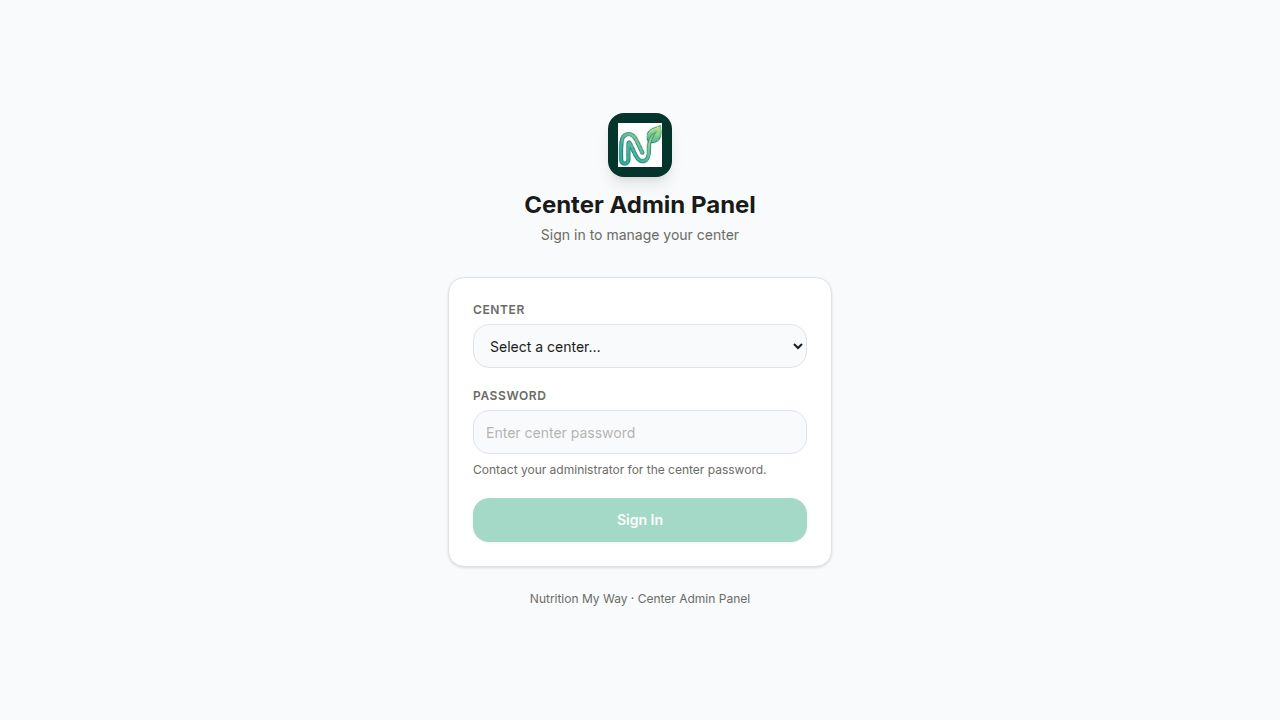
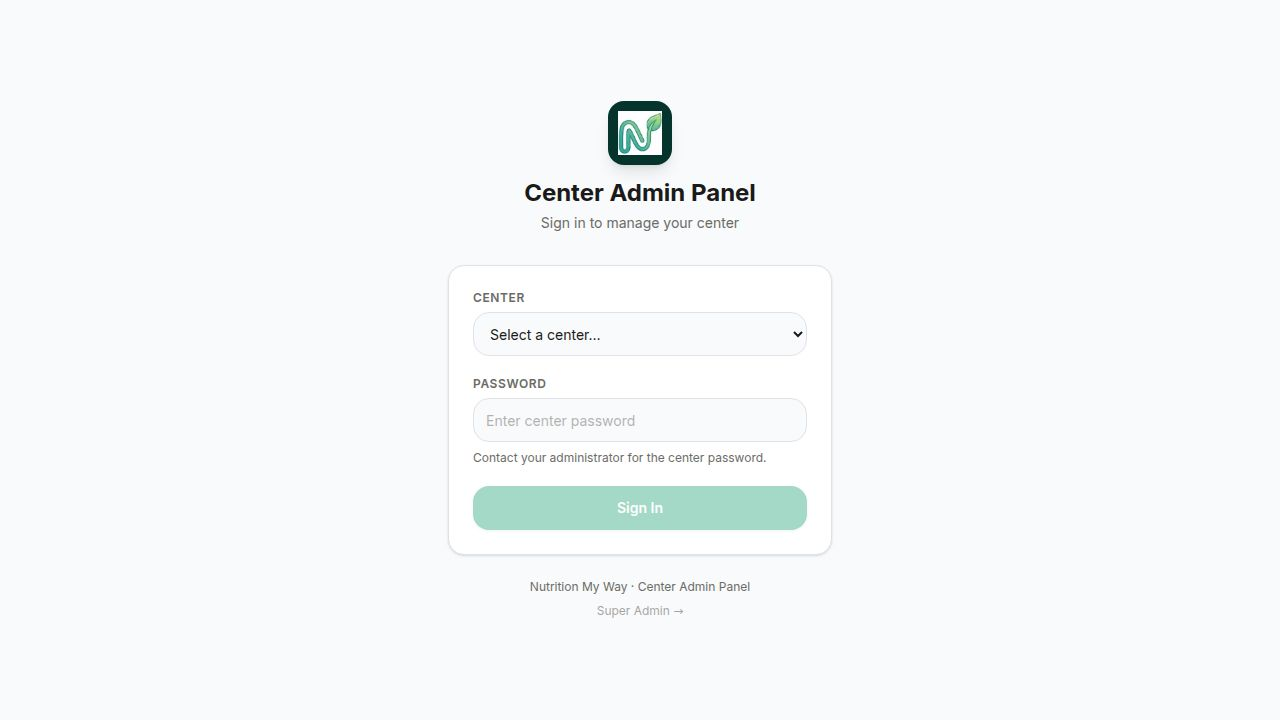
Add membership validity and renewal features to admin interface
Introduces DOB/Age fields to member creation, adds membership validity display and renewal functionality to member rows in the admin panel, and disables self-registration.

Replit-Commit-Author: Agent
Replit-Commit-Session-Id: 1934695b-7326-4707-95be-c75b027bf244
Replit-Commit-Checkpoint-Type: full_checkpoint
Replit-Commit-Event-Id: 82db5d84-4d1c-47d4-88c3-12ffcdb5e7a1
Replit-Commit-Screenshot-Url: https://storage.googleapis.com/screenshot-production-us-central1/a3f36f29-72bc-48b9-8fff-577cf1212523/1934695b-7326-4707-95be-c75b027bf244/ELupNSv
Replit-Helium-Checkpoint-Created: true

Changed region(s): [[0.3438, 0.5194, 0.6562, 0.8556], [0.4062, 0.1222, 0.5938, 0.3361], [0.375, 0.3972, 0.4688, 0.4889]]

diff --git a/artifacts/nutrimyway/src/pages/login.tsx b/artifacts/nutrimyway/src/pages/login.tsx
@@ -270,65 +270,31 @@ export function Login() {
             </motion.div>
           )}
 
-          {/* ── STEP 3: Register ── */}
+          {/* ── STEP 3: Not registered ── */}
           {step === "register" && (
             <motion.div key="register" {...slide} className="flex flex-col gap-6">
               <div>
-                <h1 className="text-2xl font-bold">Create your profile</h1>
-                <p className="text-muted-foreground text-sm mt-1">Almost there — just a few details</p>
+                <h1 className="text-2xl font-bold">Account not found</h1>
+                <p className="text-muted-foreground text-sm mt-1">
+                  This number / email isn&apos;t registered yet
+                </p>
               </div>
 
-              <div className="space-y-2">
-                <label htmlFor="name" className="text-xs font-semibold uppercase tracking-wider text-muted-foreground">
-                  Full Name
-                </label>
-                <input
-                  id="name"
-                  type="text"
-                  placeholder="e.g. Priya Sharma"
-                  value={name}
-                  onChange={e => setName(e.target.value)}
-                  className="w-full h-13 px-4 py-3.5 rounded-[12px] border border-input bg-card text-base placeholder:text-muted-foreground/50 focus:outline-none focus:ring-2 focus:ring-primary/40 focus:border-primary transition-all"
-                />
-              </div>
-
-              <div className="space-y-3">
-                <div>
-                  <label className="text-xs font-semibold uppercase tracking-wider text-muted-foreground">
-                    Your Center(s)
-                  </label>
-                  <p className="text-xs text-muted-foreground mt-0.5">Select at least one</p>
+              <div className="rounded-[16px] bg-teal-dark/6 border border-teal-dark/15 px-5 py-6 flex flex-col items-center gap-3 text-center">
+                <div className="w-12 h-12 rounded-full bg-teal-dark/10 flex items-center justify-center">
+                  <Phone className="w-5 h-5 text-teal-dark" />
                 </div>
-                <div className="space-y-2">
-                  {centers.length === 0 && (
-                    <p className="text-sm text-muted-foreground py-2 text-center">Loading…</p>
-                  )}
-                  {centers.map(c => {
-                    const on = selected.has(c.id);
-                    return (
-                      <button key={c.id} onClick={() => toggleCenter(c.id)}
-                        className={`w-full flex items-center justify-between px-4 py-3.5 rounded-[12px] border text-sm font-medium transition-all ${
-                          on
-                            ? "bg-primary/8 border-primary text-primary"
-                            : "bg-card border-border text-foreground hover:border-primary/40"
-                        }`}>
-                        <span>{c.name}</span>
-                        <span className={`w-5 h-5 rounded-full border-2 flex items-center justify-center transition-all ${
-                          on ? "bg-primary border-primary" : "border-muted-foreground/30"
-                        }`}>
-                          {on && <Check className="w-3 h-3 text-primary-foreground" />}
-                        </span>
-                      </button>
-                    );
-                  })}
-                </div>
+                <p className="text-sm font-semibold text-foreground leading-snug">
+                  Contact your wellness center
+                </p>
+                <p className="text-sm text-muted-foreground leading-relaxed">
+                  New memberships are set up by your center. Ask a staff member to
+                  add you — you&apos;ll be able to log in right away with the same
+                  mobile number or email.
+                </p>
               </div>
 
               {error && <ErrorBanner msg={error} />}
-
-              <PrimaryButton onClick={register} disabled={!canSubmitRegister} loading={loading}>
-                Get Started <ArrowRight className="w-4 h-4 ml-1.5" />
-              </PrimaryButton>
             </motion.div>
           )}
         </AnimatePresence>

diff --git a/artifacts/nutrimyway-admin/src/pages/members.tsx b/artifacts/nutrimyway-admin/src/pages/members.tsx
@@ -2,11 +2,11 @@ import { useEffect, useState, useCallback } from "react";
 import {
   UserPlus, LogIn, LogOut, Trash2, Users, Clock,
   Search, Phone, Mail, UserCheck, UserX,
-  Lock, CheckCircle2, XCircle, AlertTriangle, Loader2, X, Activity, Plus, Hash,
+  Lock, CheckCircle2, XCircle, AlertTriangle, Loader2, X, Activity, Plus, Hash, RotateCcw, CalendarClock,
 } from "lucide-react";
 import { Nav } from "@/components/nav";
 import {
-  apiGet, apiPost, apiDelete, getAdminCenter,
+  apiGet, apiPost, apiPatch, apiDelete, getAdminCenter,
   type CenterMember, type MemberLookup, type MenuItem, type VisitMenuSelection, type HealthRecord,
 } from "@/lib/api";
 
@@ -37,6 +37,9 @@ function AddMemberForm({ centerId, onAdded }: { centerId: string; onAdded: () =>
   const [height, setHeight] = useState("");
   const [doj, setDoj] = useState("");
   const [membershipNo, setMembershipNo] = useState("");
+  const [dobDay, setDobDay] = useState("");
+  const [dobMonth, setDobMonth] = useState("");
+  const [ageAtJoining, setAgeAtJoining] = useState("");
   const [saving, setSaving] = useState(false);
   const [error, setError] = useState("");
   // Health record step
@@ -55,6 +58,7 @@ function AddMemberForm({ centerId, onAdded }: { centerId: string; onAdded: () =>
   function reset() {
     setStep("search"); setQuery(""); setFound(null); setError("");
     setName(""); setEmail(""); setMobile(""); setHeight(""); setDoj(""); setMembershipNo("");
+    setDobDay(""); setDobMonth(""); setAgeAtJoining("");
     setLinkedMemberId(null);
     setHrDate(new Date().toISOString().slice(0, 10));
     setHrWeight(""); setHrBmi(""); setHrBodyFat(""); setHrVisceralFat("");
@@ -102,6 +106,8 @@ function AddMemberForm({ centerId, onAdded }: { centerId: string; onAdded: () =>
         name: name.trim(), mobile: mobile.trim() || null, email: email.trim() || null,
         height_cm: height ? Number(height) : null, date_of_joining: doj || null,
         membership_no: membershipNo.trim() || null,
+        dob: dobDay && dobMonth ? `${dobDay} ${dobMonth}` : null,
+        age_at_joining: ageAtJoining ? Number(ageAtJoining) : null,
       });
       setLinkedMemberId(member.id);
       setStep("healthrecord");
@@ -236,6 +242,23 @@ function AddMemberForm({ centerId, onAdded }: { centerId: string; onAdded: () =>
             <div className="sm:col-span-2">
               <label className="block text-xs font-medium text-muted-foreground mb-1">Date of Joining</label>
               <input type="date" value={doj} onChange={e => setDoj(e.target.value)} className={inputCls} />
+            </div>
+            <div>
+              <label className="block text-xs font-medium text-muted-foreground mb-1">Birth Day</label>
+              <input type="number" min="1" max="31" value={dobDay} onChange={e => setDobDay(e.target.value)} placeholder="1–31" className={inputCls} />
+            </div>
+            <div>
+              <label className="block text-xs font-medium text-muted-foreground mb-1">Birth Month</label>
+              <select value={dobMonth} onChange={e => setDobMonth(e.target.value)} className={inputCls}>
+                <option value="">Month</option>
+                {["Jan","Feb","Mar","Apr","May","Jun","Jul","Aug","Sep","Oct","Nov","Dec"].map(m => (
+                  <option key={m} value={m}>{m}</option>
+                ))}
+              </select>
+            </div>
+            <div className="sm:col-span-2">
+              <label className="block text-xs font-medium text-muted-foreground mb-1">Age at Joining</label>
+              <input type="number" step="0.5" min="1" max="100" value={ageAtJoining} onChange={e => setAgeAtJoining(e.target.value)} placeholder="e.g. 35.5" className={inputCls} />
             </div>
           </div>
           <p className="text-[10px] text-amber-600">* Mobile or email is required (at least one)</p>
@@ -727,6 +750,16 @@ function HealthPanel({ memberId, centerId, onClose }: {
 
 // ── Member Row ──────────────────────────────────────────────────────────────
 
+function validityBadge(valid_until: string | null) {
+  if (!valid_until) return null;
+  const exp = new Date(valid_until);
+  const expired = exp < new Date();
+  const label = exp.toLocaleDateString("en-IN", { day: "numeric", month: "short", year: "numeric" });
+  return expired
+    ? <span className="inline-flex items-center gap-1 text-[10px] font-medium text-red-600 bg-red-50 border border-red-200 rounded-full px-2 py-0.5"><CalendarClock className="w-3 h-3" />Expired {label}</span>
+    : <span className="inline-flex items-center gap-1 text-[10px] font-medium text-emerald-700 bg-emerald-50 border border-emerald-200 rounded-full px-2 py-0.5"><CalendarClock className="w-3 h-3" />Valid until {label}</span>;
+}
+
 function MemberRow({ member, centerId, onRefresh }: {
   member: CenterMember; centerId: string; onRefresh: () => void;
 }) {
@@ -736,6 +769,16 @@ function MemberRow({ member, centerId, onRefresh }: {
   const [showHealthPanel, setShowHealthPanel] = useState(false);
   const isCheckedIn = !!member.checkin_id;
   const mins = isCheckedIn ? minutesSince(member.checked_in_at!) : 0;
+
+  async function handleRenew() {
+    if (!confirm(`Renew ${member.name}'s membership by 32 days?`)) return;
+    setBusy(true);
+    try {
+      await apiPatch(`/admin/centers/${centerId}/members/${member.id}/renew`);
+      onRefresh();
+    } catch (e) { alert(e instanceof Error ? e.message : "Renewal failed"); }
+    finally { setBusy(false); }
+  }
 
   async function handleCheckin() {
     const w = Number(weightKg);
@@ -778,8 +821,9 @@ function MemberRow({ member, centerId, onRefresh }: {
               </span>
             )}
           </div>
-          <div className="flex items-center gap-3 mt-0.5">
+          <div className="flex flex-wrap items-center gap-x-3 gap-y-1 mt-0.5">
             {member.mobile && <p className="text-xs text-muted-foreground">{member.mobile}</p>}
+            {validityBadge(member.valid_until)}
             {isCheckedIn && member.checked_in_at && (
               <p className={`text-xs flex items-center gap-1 ${mins >= 150 ? "text-amber-600 font-medium" : "text-muted-foreground"}`}>
                 <Clock className="w-3 h-3" />
@@ -833,6 +877,14 @@ function MemberRow({ member, centerId, onRefresh }: {
               </button>
             </>
           )}
+          <button
+            onClick={() => void handleRenew()}
+            disabled={busy}
+            className="p-1.5 rounded-lg text-muted-foreground hover:text-emerald-600 hover:bg-emerald-50 disabled:opacity-50 transition-colors"
+            title="Renew membership (+32 days)"
+          >
+            <RotateCcw className="w-4 h-4" />
+          </button>
           <button
             onClick={() => setShowHealthPanel(v => !v)}
             className={`p-1.5 rounded-lg transition-colors ${showHealthPanel ? "text-sky-600 bg-sky-100" : "text-muted-foreground hover:text-sky-600 hover:bg-sky-50"}`}

diff --git a/artifacts/api-server/src/routes/admin.ts b/artifacts/api-server/src/routes/admin.ts
@@ -732,6 +732,7 @@ router.get("/admin/centers/:centerId/members", requireAdmin, async (req, res) =>
   const { rows } = await pool.query(
     `SELECT
        m.id, m.name, m.date_of_joining, m.height_cm, m.mobile, m.email, m.membership_no,
+       m.dob, m.age_at_joining, m.valid_until,
        ci.id          AS checkin_id,
        ci.checked_in_at,
        ci.checked_out_at,
@@ -758,17 +759,21 @@ router.post("/admin/centers/:centerId/members", requireAdmin, async (req, res) =
   const adminReq = req as AdminRequest;
   if (adminReq.adminCenterId !== centerId) { res.status(403).json({ error: "Forbidden" }); return; }
 
-  const { name, height_cm, date_of_joining, mobile, email, membership_no } = req.body as {
+  const { name, height_cm, date_of_joining, mobile, email, membership_no, dob, age_at_joining } = req.body as {
     name?: string; height_cm?: number | null; date_of_joining?: string | null;
     mobile?: string | null; email?: string | null; membership_no?: string | null;
+    dob?: string | null; age_at_joining?: number | null;
   };
   if (!name?.trim()) { res.status(400).json({ error: "name is required" }); return; }
   if (!mobile?.trim() && !email?.trim()) { res.status(400).json({ error: "mobile or email is required" }); return; }
+  if (age_at_joining != null && (age_at_joining <= 0 || age_at_joining > 100)) {
+    res.status(400).json({ error: "age_at_joining must be between 0 and 100" }); return;
+  }
 
   const { rows: memberRows } = await pool.query(
-    `INSERT INTO members (name, height_cm, date_of_joining, mobile, email, membership_no)
-     VALUES ($1,$2,$3,$4,$5,$6) RETURNING *`,
-    [name.trim(), height_cm ?? null, date_of_joining ?? null, mobile?.trim() || null, email?.trim() || null, membership_no?.trim() || null]
+    `INSERT INTO members (name, height_cm, date_of_joining, mobile, email, membership_no, dob, age_at_joining)
+     VALUES ($1,$2,$3,$4,$5,$6,$7,$8) RETURNING *`,
+    [name.trim(), height_cm ?? null, date_of_joining ?? null, mobile?.trim() || null, email?.trim() || null, membership_no?.trim() || null, dob?.trim() || null, age_at_joining ?? null]
   );
   const member = memberRows[0];
   await pool.query(
@@ -776,6 +781,25 @@ router.post("/admin/centers/:centerId/members", requireAdmin, async (req, res) =
     [member.id, centerId]
   );
   res.status(201).json(member);
+});
+
+// PATCH /api/admin/centers/:centerId/members/:memberId/renew — extend validity by 32 days
+router.patch("/admin/centers/:centerId/members/:memberId/renew", requireAdmin, async (req, res) => {
+  const { centerId, memberId } = req.params;
+  const adminReq = req as AdminRequest;
+  if (adminReq.adminCenterId !== centerId) { res.status(403).json({ error: "Forbidden" }); return; }
+
+  const { rows: membership } = await pool.query(
+    `SELECT 1 FROM member_center_mapping WHERE member_id = $1 AND center_id = $2`,
+    [Number(memberId), centerId]
+  );
+  if (!membership[0]) { res.status(404).json({ error: "Member not found in this center" }); return; }
+
+  const { rows } = await pool.query(
+    `UPDATE members SET valid_until = CURRENT_DATE + INTERVAL '32 days' WHERE id = $1 RETURNING valid_until`,
+    [Number(memberId)]
+  );
+  res.json({ valid_until: rows[0].valid_until });
 });
 
 // DELETE /api/admin/centers/:centerId/members/:memberId — unlink member from center

diff --git a/artifacts/api-server/src/routes/auth.ts b/artifacts/api-server/src/routes/auth.ts
@@ -117,8 +117,13 @@ router.post("/auth/verify-otp", async (req, res) => {
   res.json({ token: partialToken, member_id: null, is_new_user: true });
 });
 
-// POST /api/auth/register
-router.post("/auth/register", async (req, res) => {
+// POST /api/auth/register — disabled: member onboarding is center-only
+router.post("/auth/register", async (_req, res) => {
+  res.status(403).json({ error: "Self-registration is disabled. Please contact your wellness center to get registered." });
+});
+
+// POST /api/auth/register_legacy (kept for reference only, never called)
+router.post("/auth/register_legacy", async (req, res) => {
   const { token, name, center_ids } = req.body as {
     token?: string; name?: string; center_ids?: string[];
   };

diff --git a/artifacts/api-server/src/lib/sqlite.ts b/artifacts/api-server/src/lib/sqlite.ts
@@ -497,6 +497,13 @@ async function migrateAdminTables6(): Promise<void> {
   `);
 }
 
+async function migrateAdminTables9(): Promise<void> {
+  // Member DOB (day + month only, e.g. "15 Mar"), age at joining (decimal), and validity date
+  await pool.query(`ALTER TABLE members ADD COLUMN IF NOT EXISTS dob TEXT`);
+  await pool.query(`ALTER TABLE members ADD COLUMN IF NOT EXISTS age_at_joining REAL`);
+  await pool.query(`ALTER TABLE members ADD COLUMN IF NOT EXISTS valid_until DATE`);
+}
+
 async function migrateAdminTables8(): Promise<void> {
   // Center access validity date — blocks login after this date when set
   await pool.query(`ALTER TABLE center_auth ADD COLUMN IF NOT EXISTS valid_until DATE`);
@@ -540,6 +547,7 @@ export async function initDb(): Promise<void> {
   await migrateAdminTables6();
   await migrateAdminTables7();
   await migrateAdminTables8();
+  await migrateAdminTables9();
   await seedCenterPasswords();
   await seedSuperAdmin();
 }

diff --git a/artifacts/nutrimyway-admin/src/lib/api.ts b/artifacts/nutrimyway-admin/src/lib/api.ts
@@ -173,6 +173,9 @@ export interface CenterMember {
   mobile: string | null;
   email: string | null;
   membership_no: string | null;
+  dob: string | null;
+  age_at_joining: number | null;
+  valid_until: string | null;
   checkin_id: number | null;
   checked_in_at: string | null;
   checked_out_at: string | null;